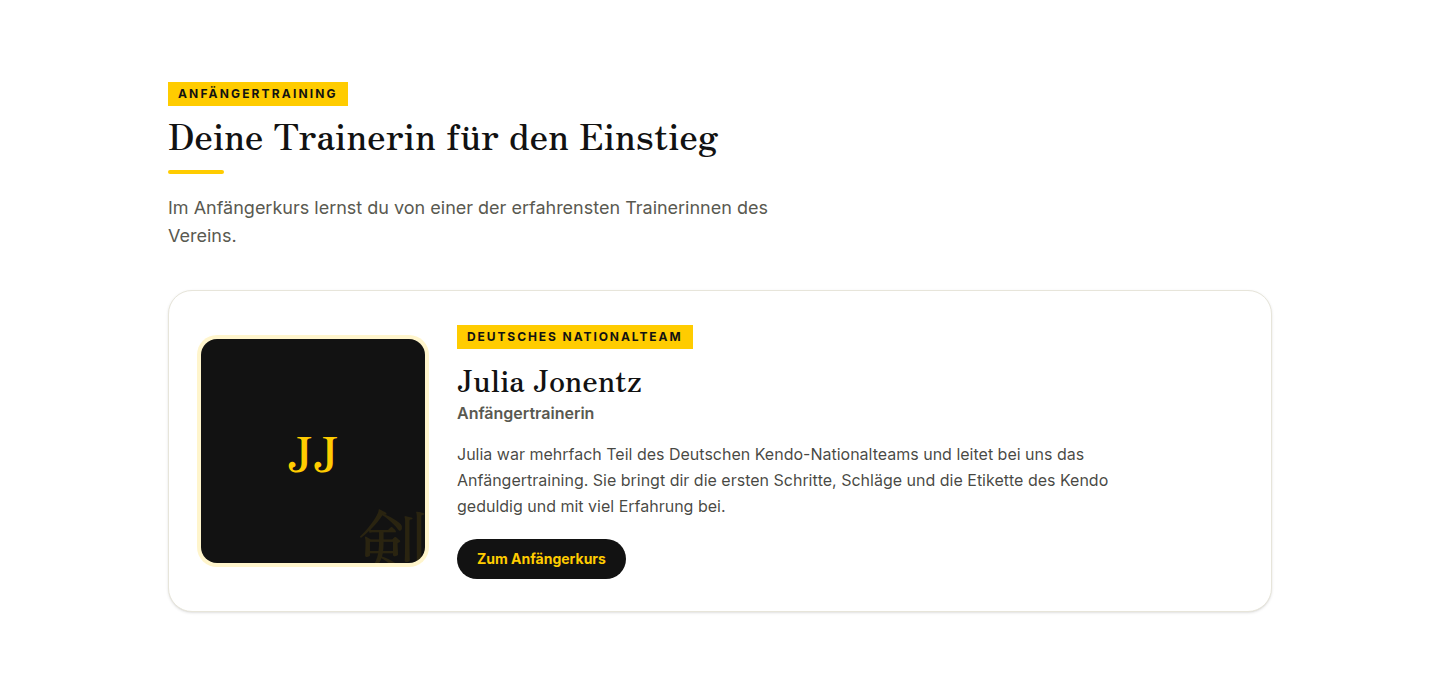
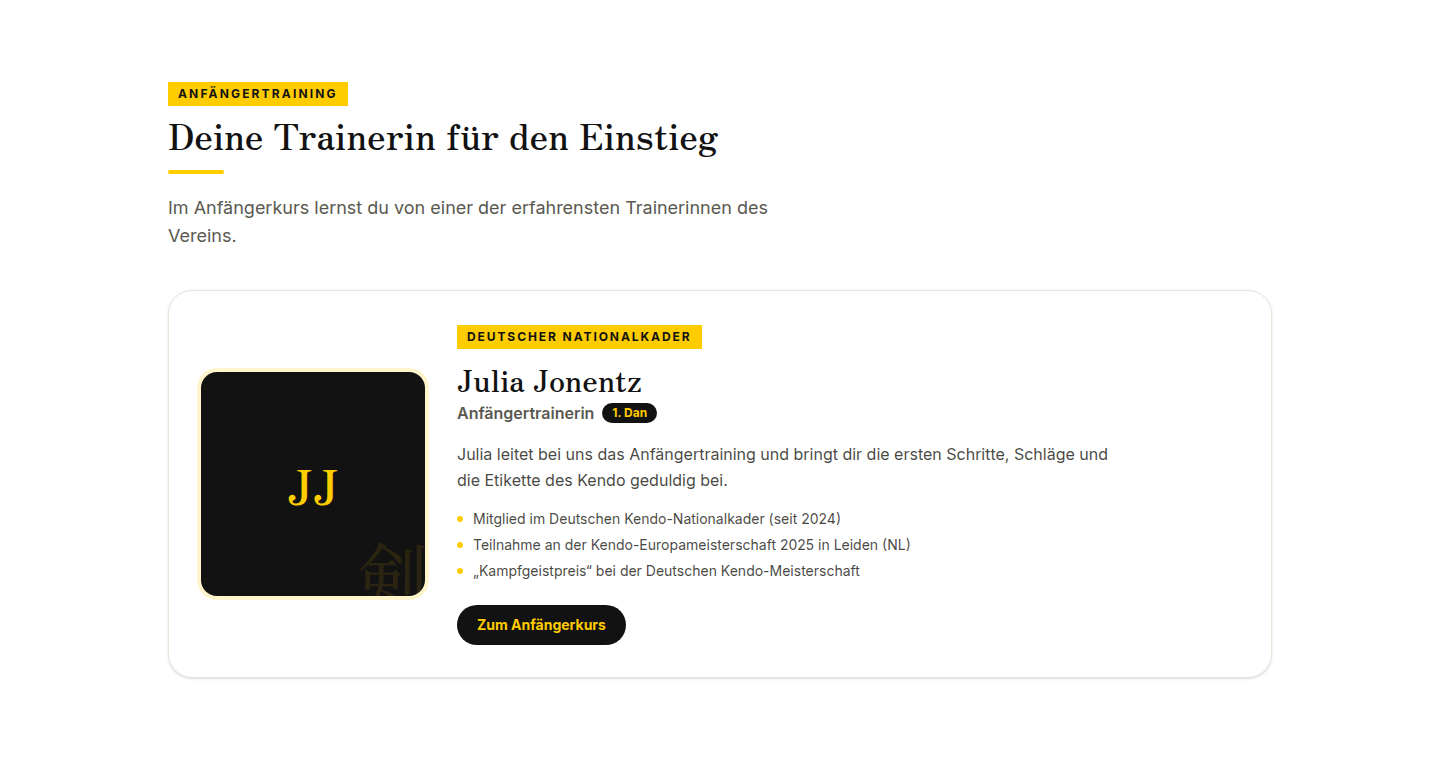
Add researched trainer grades and achievements
- Sascha Yokoo & Dance Yokoo: 7. Dan Kyoshi, with achievement lists
  (Dance: German/Bavarian individual titles, EM team gold, WM team bronze;
  former German women's national team 2003-2013)
- Julia Jonentz: 1. Dan, "Deutscher Nationalkader" badge with achievements
  (national squad since 2024, EC 2025 Leiden, Kampfgeistpreis at the DEM)
- Extend trainer data model in lib/site.ts with grade + achievements
- Render grade chips and a gold-bulleted AchievementList in the cards

Changed region(s): [[0.125, 0.4249, 0.7812, 0.8497], [0.0938, 0.091, 0.5312, 0.3642], [0.1875, 0.6069, 0.25, 0.698]]

diff --git a/components/Team.tsx b/components/Team.tsx
@@ -66,6 +66,30 @@ function Avatar({
   );
 }
 
+/** Bulleted list of achievements with gold markers. */
+function AchievementList({
+  items,
+  className = "",
+}: {
+  items: readonly string[];
+  className?: string;
+}) {
+  if (!items?.length) return null;
+  return (
+    <ul className={`space-y-1.5 ${className}`}>
+      {items.map((a) => (
+        <li key={a} className="flex gap-2.5 text-sm text-ink/80">
+          <span
+            aria-hidden
+            className="mt-[7px] h-1.5 w-1.5 shrink-0 rounded-full bg-gold"
+          />
+          <span>{a}</span>
+        </li>
+      ))}
+    </ul>
+  );
+}
+
 /** Section 1 — beginner trainer (Julia Jonentz). */
 export function BeginnerCoach() {
   const c = beginnerCoach;
@@ -90,11 +114,17 @@ export function BeginnerCoach() {
           <h3 className="mt-3 font-display text-2xl font-bold text-coal sm:text-3xl">
             {c.name}
           </h3>
-          <p className="mt-1 font-semibold text-muted">{c.role}</p>
+          <p className="mt-1 flex flex-wrap items-center gap-2 font-semibold text-muted">
+            {c.role}
+            <span className="rounded-full bg-coal px-2.5 py-0.5 text-xs font-bold text-gold">
+              {c.grade}
+            </span>
+          </p>
           <p className="mt-4 max-w-2xl leading-relaxed text-ink/80">{c.bio}</p>
+          <AchievementList items={c.achievements} className="mt-4" />
           <a
             href="#anfaengerkurs"
-            className="mt-5 inline-flex items-center gap-2 rounded-full bg-coal px-5 py-2.5 text-sm font-bold text-gold transition-colors hover:bg-coal-700"
+            className="mt-6 inline-flex items-center gap-2 rounded-full bg-coal px-5 py-2.5 text-sm font-bold text-gold transition-colors hover:bg-coal-700"
           >
             Zum Anfängerkurs
           </a>
@@ -118,7 +148,7 @@ export function Trainers() {
         {trainers.map((t) => (
           <li
             key={t.name}
-            className="flex items-center gap-5 rounded-2xl border border-line bg-paper p-5 shadow-sm transition-colors hover:border-gold sm:p-6"
+            className="flex flex-col gap-5 rounded-2xl border border-line bg-paper p-5 shadow-sm transition-colors hover:border-gold sm:flex-row sm:p-6"
           >
             <Avatar
               name={t.name}
@@ -132,13 +162,12 @@ export function Trainers() {
               </h3>
               <p className="mt-0.5 flex flex-wrap items-center gap-2 text-sm font-semibold text-muted">
                 {t.role}
-                {t.dan && (
-                  <span className="rounded-full bg-coal px-2 py-0.5 text-xs font-bold text-gold">
-                    {t.dan}
-                  </span>
-                )}
+                <span className="rounded-full bg-coal px-2.5 py-0.5 text-xs font-bold text-gold">
+                  {t.grade}
+                </span>
               </p>
               <p className="mt-3 text-sm leading-relaxed text-ink/80">{t.bio}</p>
+              <AchievementList items={t.achievements} className="mt-4" />
             </div>
           </li>
         ))}

diff --git a/lib/site.ts b/lib/site.ts
@@ -152,31 +152,46 @@ export const targets = [
 export const beginnerCoach = {
   name: "Julia Jonentz",
   role: "Anfängertrainerin",
-  badge: "Deutsches Nationalteam",
+  grade: "1. Dan",
+  badge: "Deutscher Nationalkader",
   bio:
-    "Julia war mehrfach Teil des Deutschen Kendo-Nationalteams und leitet bei " +
-    "uns das Anfängertraining. Sie bringt dir die ersten Schritte, Schläge und " +
-    "die Etikette des Kendo geduldig und mit viel Erfahrung bei.",
+    "Julia leitet bei uns das Anfängertraining und bringt dir die ersten " +
+    "Schritte, Schläge und die Etikette des Kendo geduldig bei.",
+  achievements: [
+    "Mitglied im Deutschen Kendo-Nationalkader (seit 2024)",
+    "Teilnahme an der Kendo-Europameisterschaft 2025 in Leiden (NL)",
+    "„Kampfgeistpreis“ bei der Deutschen Kendo-Meisterschaft",
+  ],
   photo: "julia-jonentz.jpg",
 } as const;
 
 /**
- * Head trainers shown in the "Trainerteam" section. `dan` is optional – leave
- * it empty until confirmed. Photos go to public/images/team/<photo>.
+ * Head trainers shown in the "Trainerteam" section.
+ * Photos go to public/images/team/<photo>.
  */
 export const trainers = [
   {
-    name: "Sascha",
+    name: "Sascha Yokoo",
     role: "Trainer",
-    dan: "",
-    bio: "Bekannte Größe der deutschen Kendo-Szene mit langjähriger Erfahrung im Training und Wettkampf.",
+    grade: "7. Dan Kyoshi",
+    bio: "Einer der renommiertesten Kendo-Lehrer Deutschlands und prägende Figur des Münchner Kendo.",
+    achievements: [
+      "Gefragter Lehrgangsleiter & Kampfrichter im Deutschen Kendobund",
+      "Langjährige Trainer- und Wettkampferfahrung auf nationaler Ebene",
+    ],
     photo: "sascha.jpg",
   },
   {
     name: "Dance Yokoo",
-    role: "Trainer",
-    dan: "",
-    bio: "Bekannte Größe der deutschen Kendo-Szene und prägende Figur des Münchner Kendo.",
+    role: "Trainerin",
+    grade: "7. Dan Kyoshi",
+    bio: "Seit über 15 Jahren Trainerin bei Kendo München und langjähriges Mitglied des Deutschen Damen-Nationalteams (2003–2013).",
+    achievements: [
+      "Mehrfache Deutsche Einzelmeisterin (u. a. 2003, 2005, 2009)",
+      "Mehrfache Bayerische Einzelmeisterin (u. a. 2007, 2008, 2010)",
+      "EM-Gold mit dem Damen-Team (u. a. 2005, 2007, 2008, 2011, 2013)",
+      "WM-Bronze im Team (2006 & 2012)",
+    ],
     photo: "dance-yokoo.jpg",
   },
 ] as const;
